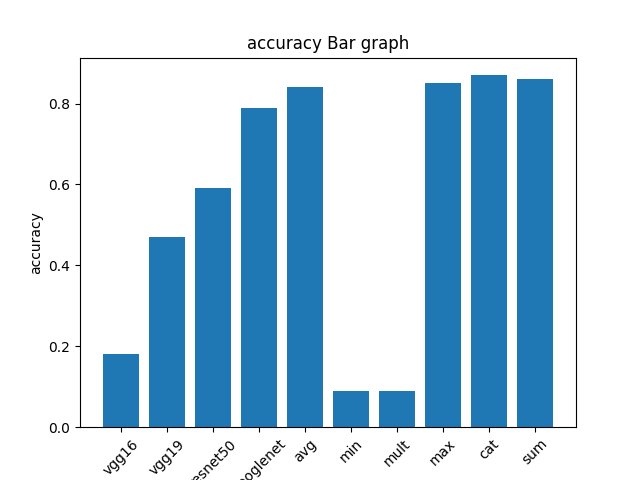
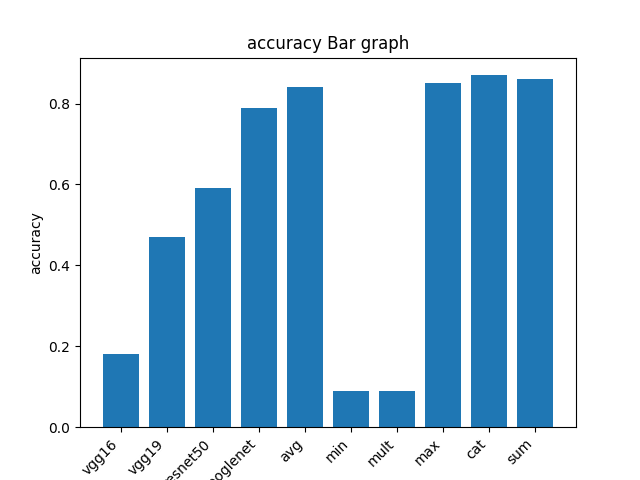
minor changes

Changed region(s): [[0.125, 0.9062, 0.8438, 1.0]]

diff --git a/dcnn/metrics_agg.py b/dcnn/metrics_agg.py
@@ -16,7 +16,7 @@ def create_bar(dcnns, fusions,  col, path="metrics"):
         val.append(m)
 
     plt.bar(cat, val)
-    plt.xticks(rotation=45)
+    plt.xticks(rotation=45, ha="right")
     plt.xlabel('Models')
     plt.ylabel(f"{col}")
     plt.title(f"{col} Bar graph")
